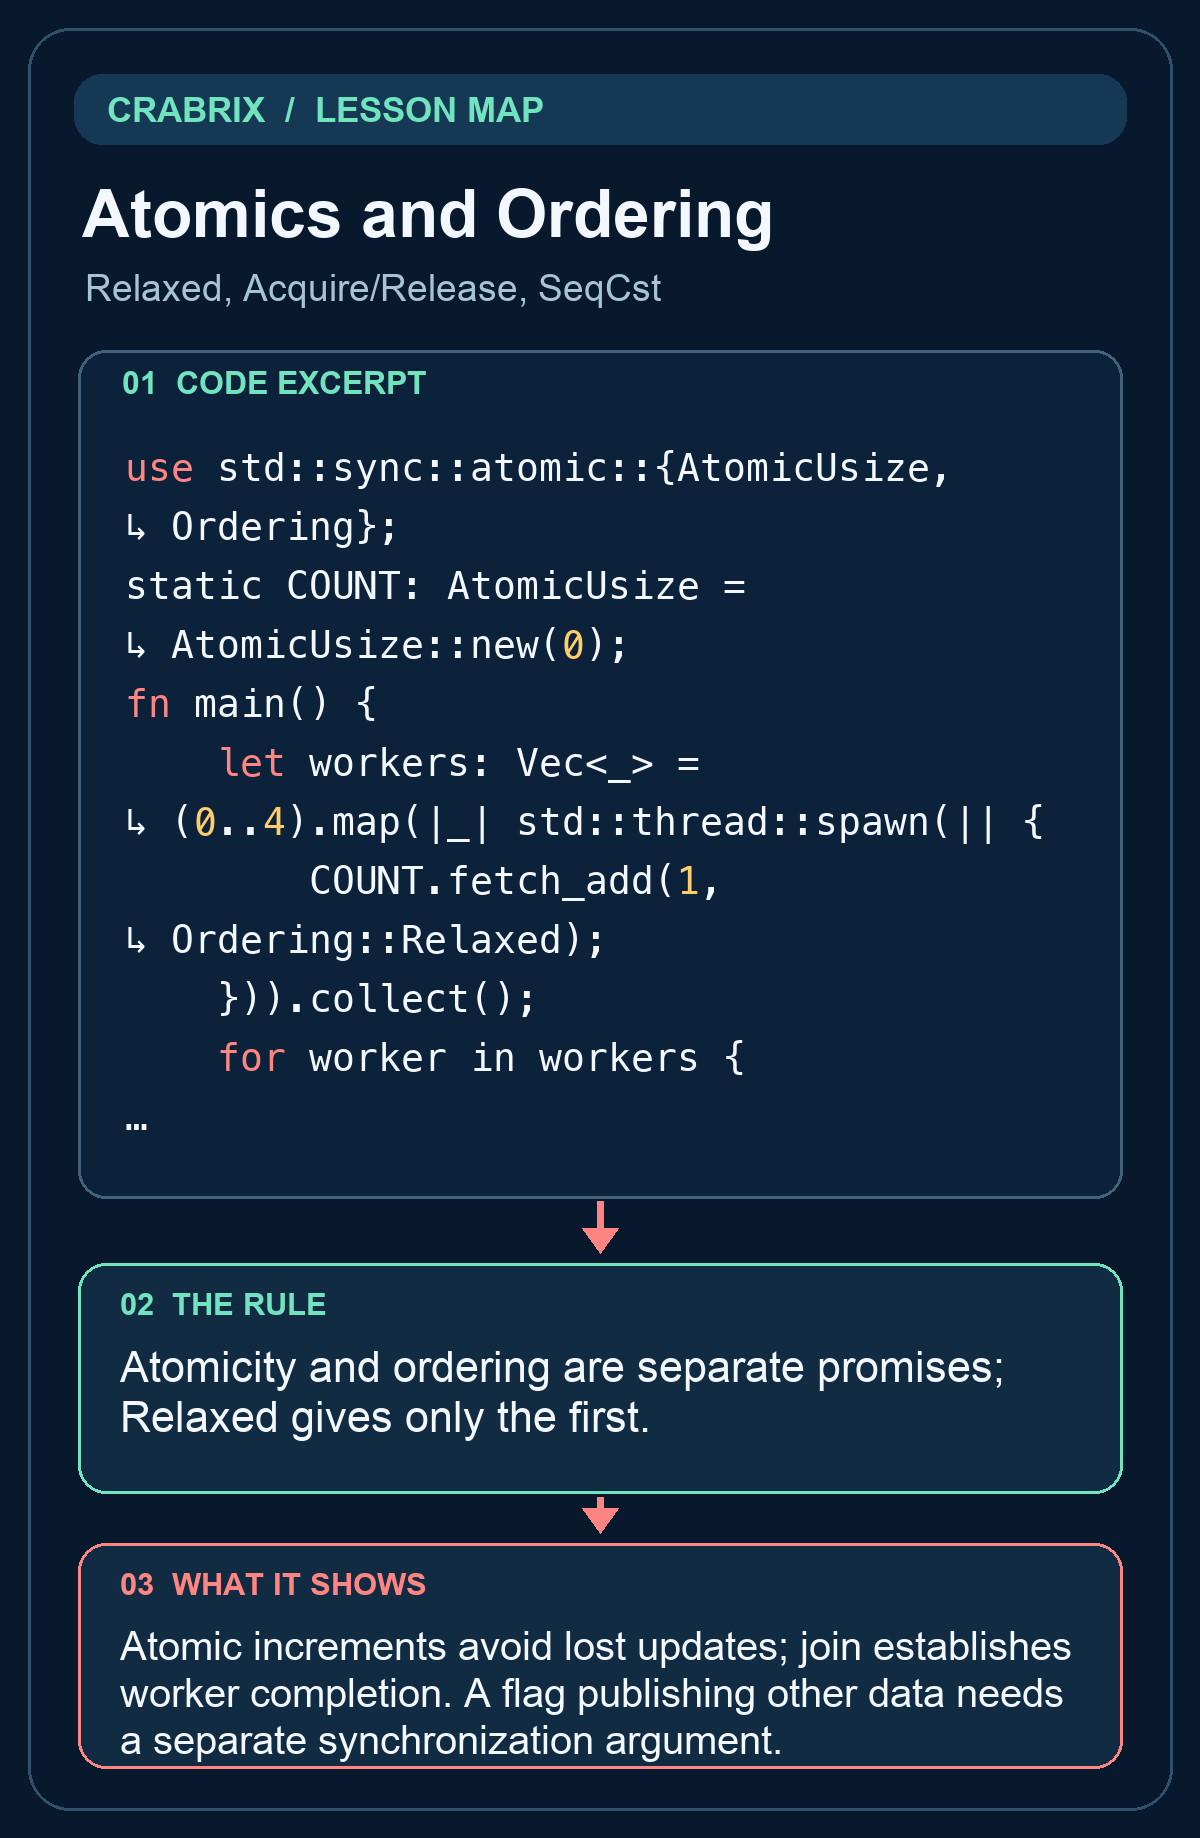
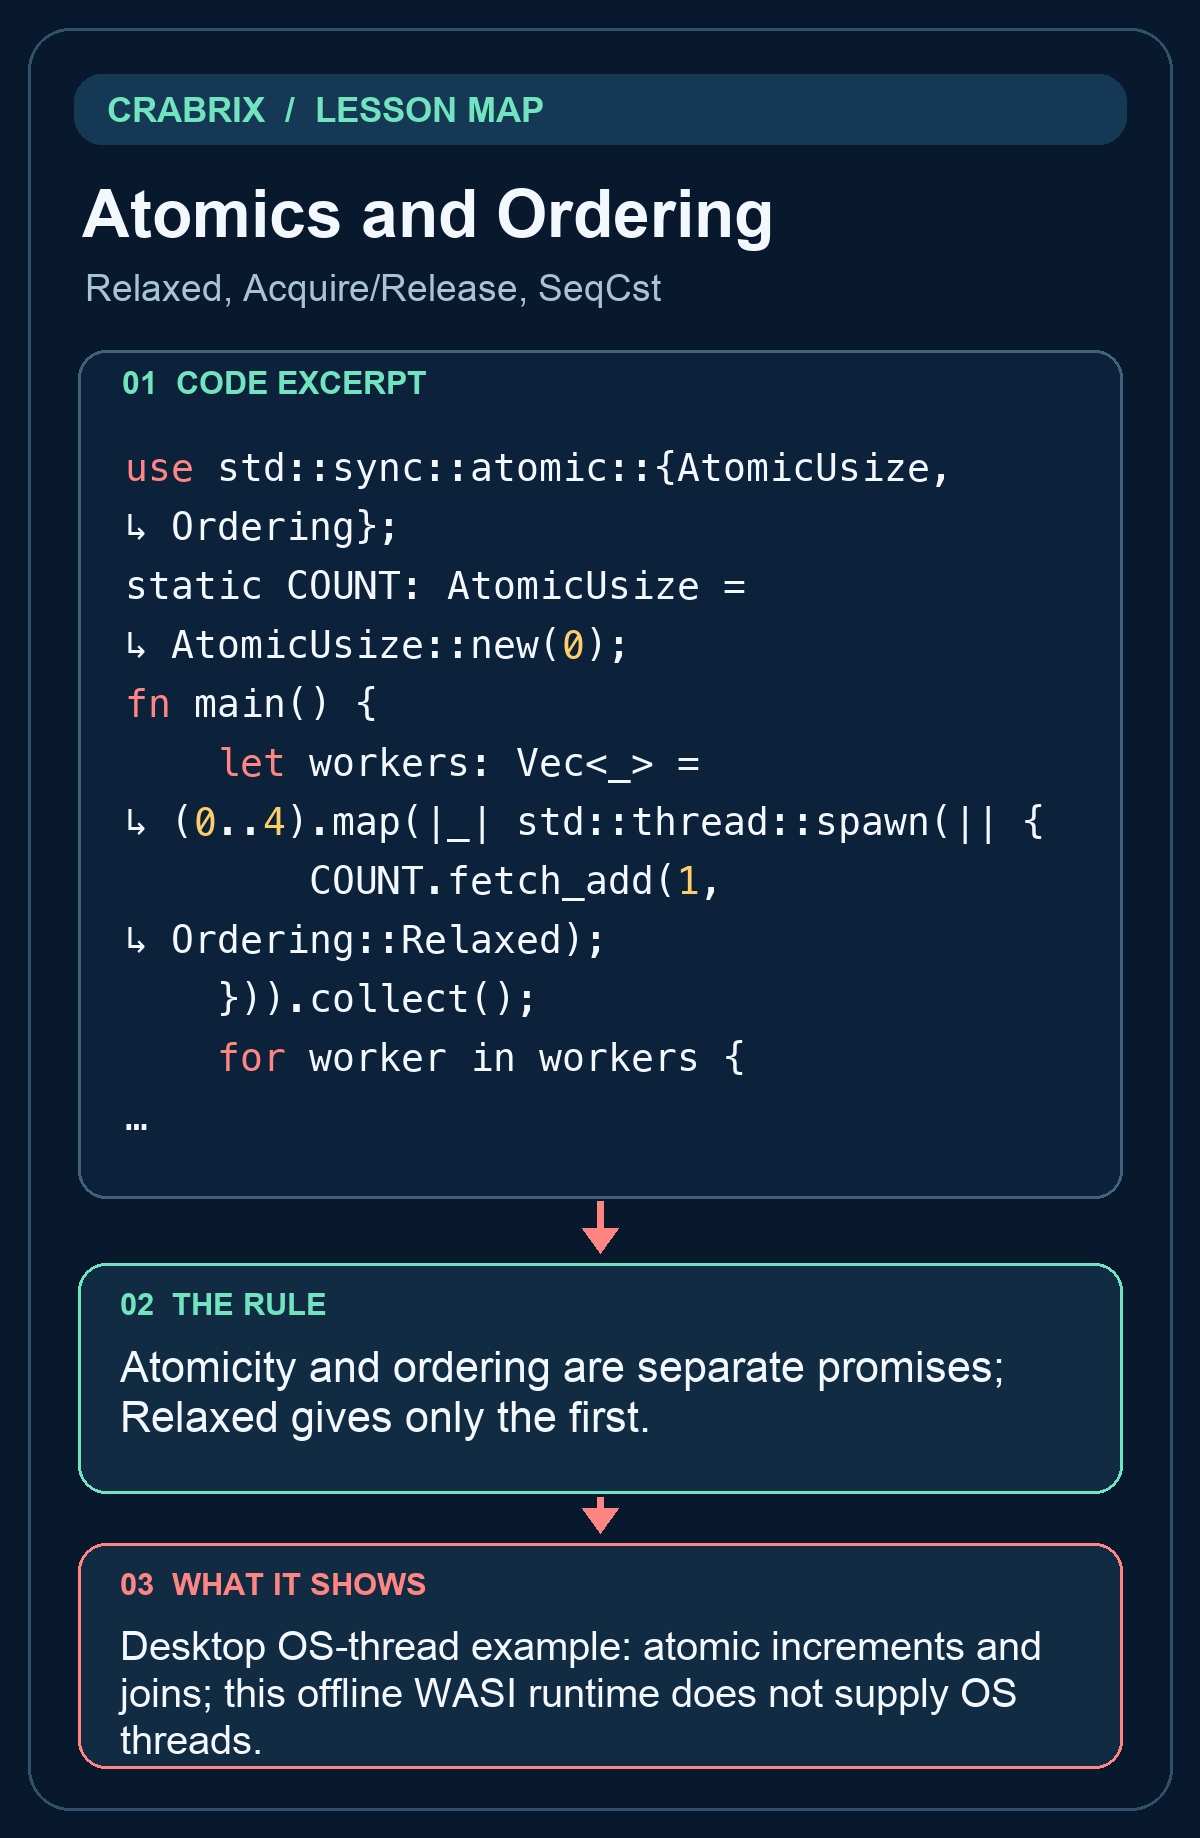
Clarify desktop-only atomics example and validate separate reasoning checks

Changed region(s): [[0.0925, 0.8683, 0.8942, 0.9614]]

diff --git a/tests/test_interview_revision.py b/tests/test_interview_revision.py
@@ -10,7 +10,9 @@ class InterviewRevisionTests(unittest.TestCase):
   self.assertTrue(set(baseline).issubset(ids));self.assertEqual(set(ids)-set(baseline),set(json.loads((ROOT/'editorial/interview_20261029/added-ids.json').read_text())))
   for id in ids:
    lesson=json.loads((ROOT/'courses/interview/lessons'/f'{id}.json').read_text());w=lesson['writing'];check=json.loads((ROOT/'courses/interview/checks'/f'{id}.json').read_text())
-   self.assertEqual(check['evidence']['correctAnswer'],w['correctAnswer']);self.assertEqual(len(w['answers']),len(set(w['answers'])))
+   
+   if check['evidence']['kind']=='reasoning':self.assertEqual(check['evidence']['correctAnswer'],w['correctAnswer'])
+   self.assertEqual(len(w['answers']),len(set(w['answers'])))
    self.assertGreater(len(lesson['depth']['transferChallenge']),60)
    if id in baseline:self.assertEqual(w['correctAnswer'],baseline[id]['correctAnswer'])
  def test_complete_new_examples_and_deliberate_errors_have_actual_compiler_evidence(self):

diff --git a/README.md b/README.md
@@ -91,7 +91,7 @@ The signed descriptors in the release are bound to the exact archive bytes. If l
 
 Edit `courses/<courseID>/lessons/<lessonID>.json` (and its check or media if needed). Keep the lesson `id` when the topic is the same: the app uses that ID to retain completion and answer history. Increment only that course's `contentVersion` in `course.json` and `provenance.json`, then run `python3 tools/recompute_digests.py <courseID>`, `validate`, and the deterministic `build` command above. Sign the new descriptor with `tools/sign_release.py`; the private seed stays outside this repository.
 
-For a lesson with a generated code-to-rule diagram, run `python3 tools/complete_lesson_illustrations.py --refresh` after changing its example or explanation. This refreshes only generated diagrams; custom artwork is never overwritten. The command also checks that all 742 lessons still have illustration metadata.
+For a lesson with a generated code-to-rule diagram, run `python3 tools/complete_lesson_illustrations.py --refresh` after changing its example or explanation. This refreshes only generated diagrams; custom artwork is never overwritten. The command also checks that all current lessons still have illustration metadata.
 For new Atlas steps, `python3 tools/attach_atlas_illustrations.py` attaches the appropriate pattern panel to each lesson and is safe to run again.
 
 For an incremental release, put only the new course's signed descriptor and archive in a fresh release staging directory. `tools/make_catalog.py --previous-catalog catalog.v1.json --keys keys/production-keyring.json --dist <staging> --base-url <new-release-asset-URL> --sequence <next-sequence> --release-notes <notes> --out <new-payload>` verifies the previous catalog, carries forward untouched course URLs, and requires a higher version for the changed course. Sign and verify the new catalog, publish the new archive and descriptor first, then replace `catalog.v1.json`. This avoids rebuilding or uploading the other seven courses. The app checks the signed catalog in Learn and My Courses, displays an **Update** button, and activates the verified course while keeping the learner's progress and projects. The previous lesson remains visible until an already open lesson is closed.
